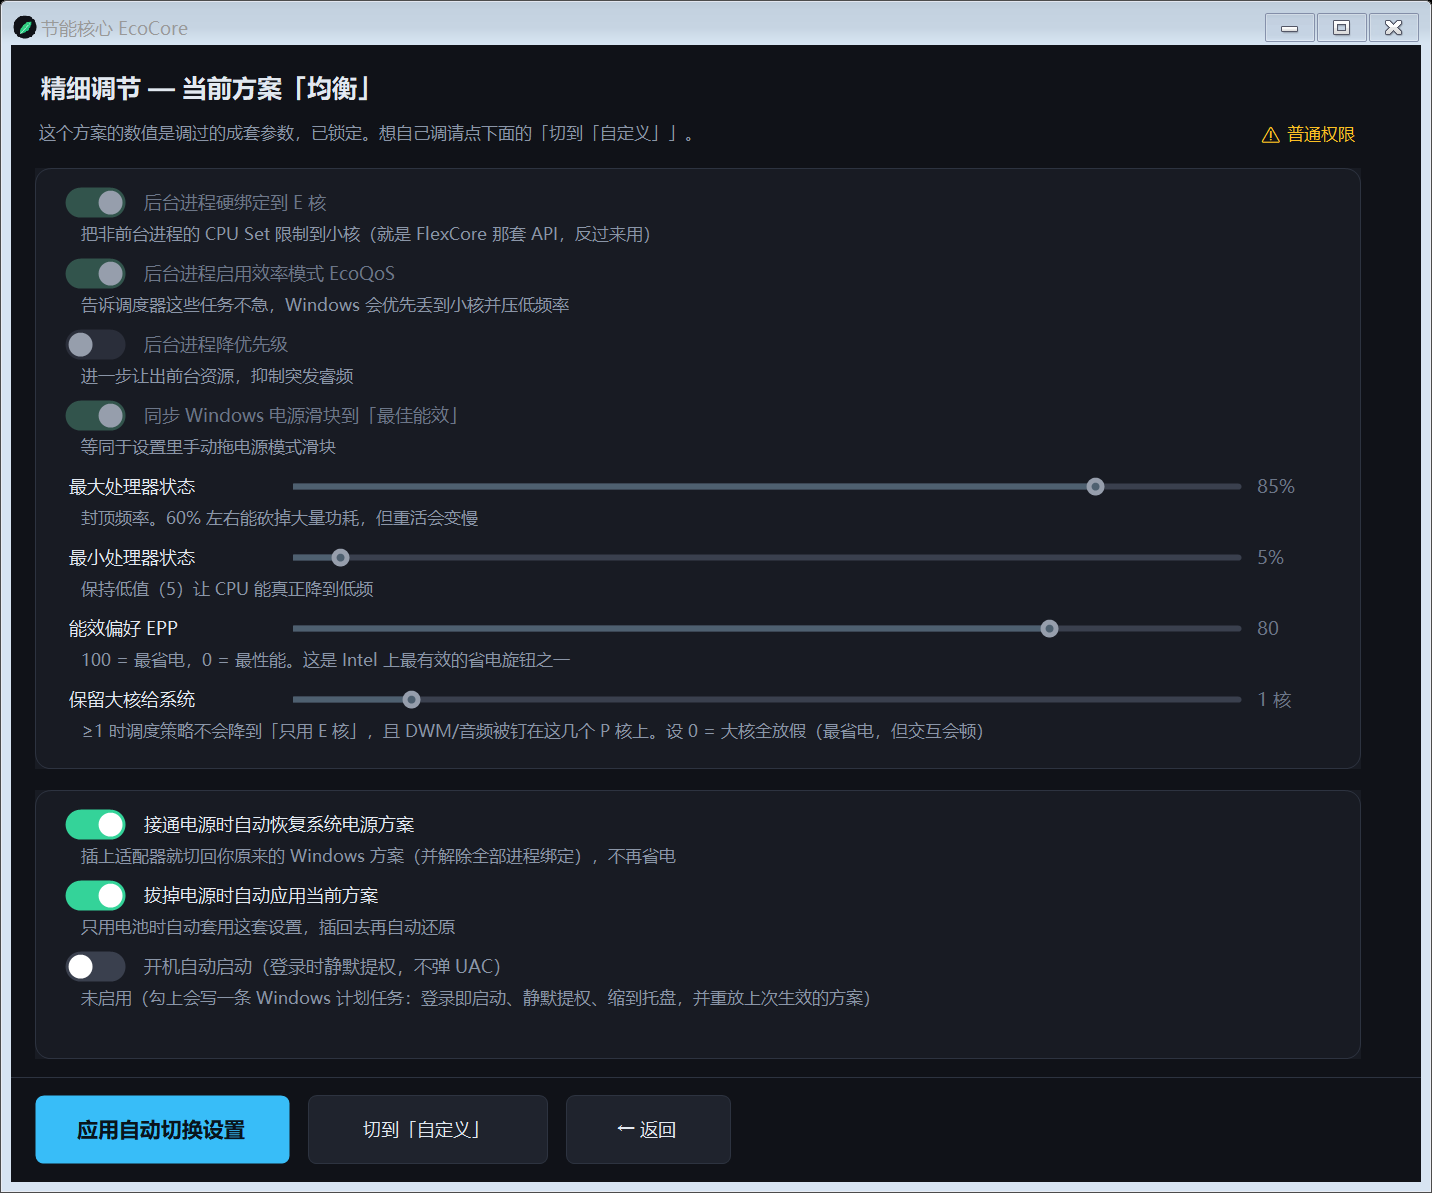
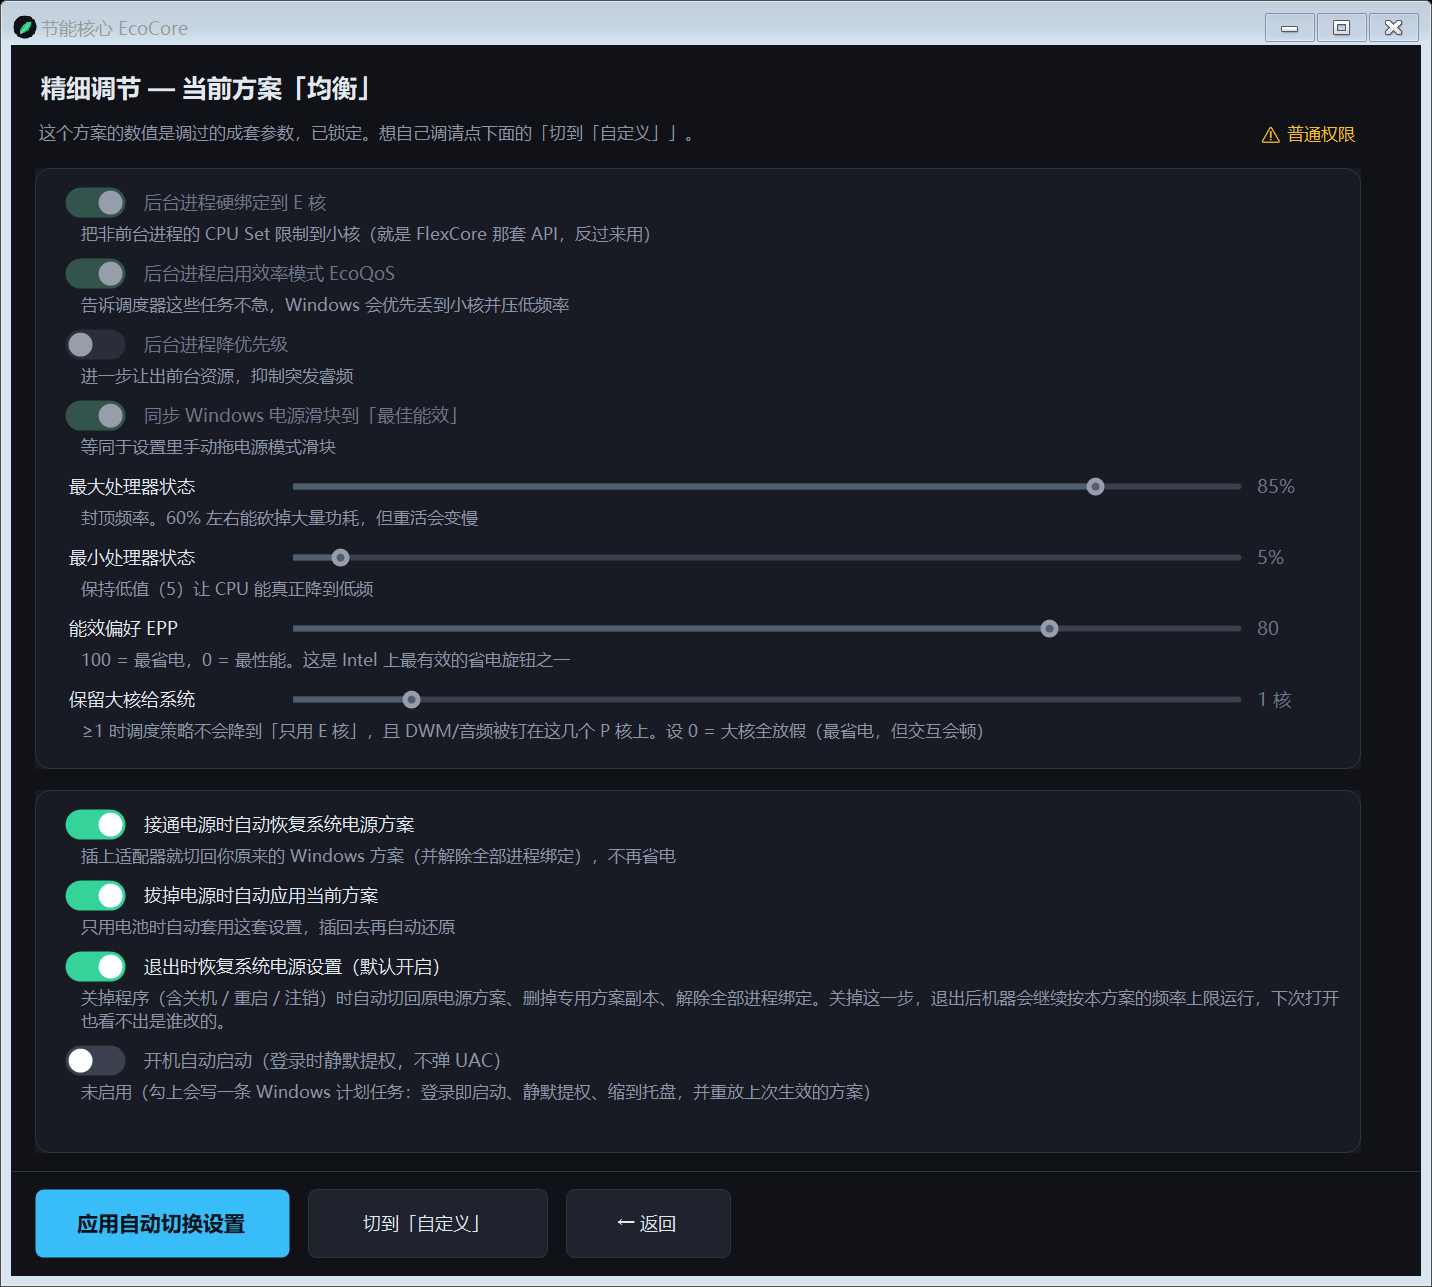
feat: 退出默认恢复系统电源设置（含关机/重启/注销）
- AppSettings.RestoreOnExit 默认 true；精细调节新增「退出时恢复系统电源设置」开关
- OnFormClosing 不再弹三选对话框，直接 Restore()，日志记录 CloseReason
- 配了开机自启时退出后保住 Applied 意图，下次登录照样重放方案
- 版本 1.2.2（本地提交，等指令再 push）

diff --git a/src/EcoCore/UI/MainForm.cs b/src/EcoCore/UI/MainForm.cs
@@ -623,15 +623,28 @@ public sealed class MainForm : Form
             return;
         }
 
-        // 退出时若还处于已应用状态，问一句要不要断开隔离
-        if (_co.IsApplied && e.CloseReason == CloseReason.UserClosing)
+        // 退出默认恢复系统电源设置（切回原方案 + 删副本 + 解除全部进程绑定）。
+        // 这是"默认"行为，理由：留在系统里的专用电源方案副本会让下一台/下一次运行莫名其妙地省电，
+        // 用户也搞不清是谁改的；退出还机器一个原样最省心。不想要可以在「精细调节」里关掉。
+        if (_co.IsApplied && _st.RestoreOnExit)
         {
-            var r = MessageBox.Show(this,
-                "退出后会解除全部进程的 E 核绑定。\n电源方案里写入的值会保留（可在「全部恢复默认」中清除）。\n\n退出前要顺便恢复电源方案吗？",
-                "节能核心", MessageBoxButtons.YesNoCancel, MessageBoxIcon.Question);
-            if (r == DialogResult.Cancel) { e.Cancel = true; return; }
-            if (r == DialogResult.Yes) _co.Restore(out _);
-            else _co.ReleaseAllProcesses();
+            _co.Restore(out string sum);
+            AppendLog($"退出（{e.CloseReason}）：已恢复系统电源设置 —— " + sum.Replace("\n", "；"));
+            _tray?.ShowBalloonTip(2000, "节能核心", "已恢复系统电源设置。", ToolTipIcon.Info);
+
+            // Restore 会清掉 Applied。但配了开机自启的话，"下次登录要重放方案"这个意图得留下，
+            // 否则退出一次自启就永久失效了。
+            if (AutoStart.Detect(out _) != AutoStartMode.None)
+            {
+                _st.Applied = true;
+                AppendLog("退出：开机自启仍启用，下次登录会重新应用方案。");
+            }
+        }
+        else if (_co.IsApplied)
+        {
+            // 用户关掉了「退出时恢复」：至少把进程层的 E 核绑定解开
+            _co.ReleaseAllProcesses();
+            AppendLog("退出：保留了电源方案（「退出时恢复」已关闭），已解除全部进程绑定。");
         }
 
         StateStore.Save(_st);

diff --git a/src/EcoCore/UI/DetailPage.cs b/src/EcoCore/UI/DetailPage.cs
@@ -158,6 +158,9 @@ internal sealed class DetailPage : UserControl
             "插上适配器就切回你原来的 Windows 方案（并解除全部进程绑定），不再省电");
         AddToggle(card2, "chkBatt", "拔掉电源时自动应用当前方案", px, ref py2,
             "只用电池时自动套用这套设置，插回去再自动还原");
+        AddToggle(card2, "chkExit", "退出时恢复系统电源设置（默认开启）", px, ref py2,
+            "关掉程序（含关机 / 重启 / 注销）时自动切回原电源方案、删掉专用方案副本、解除全部进程绑定。" +
+            "关掉这一步，退出后机器会继续按本方案的频率上限运行，下次打开也看不出是谁改的。");
         AddToggle(card2, "chkAuto", "开机自动启动（登录时静默提权，不弹 UAC）", px, ref py2,
             "勾上后写一条 Windows 计划任务：登录即启动、直接拿管理员权限、缩到托盘，" +
             "并把上次生效的方案重新应用一次（进程绑定不跨重启保留，不重放等于没开机自启）。");
@@ -205,6 +208,11 @@ internal sealed class DetailPage : UserControl
         _toggles["chkBatt"].CheckedChanged += (_, _) =>
         {
             _co.Settings.AutoSwitchOnBattery = _toggles["chkBatt"].Checked;
+            StateStore.Save(_co.Settings);
+        };
+        _toggles["chkExit"].CheckedChanged += (_, _) =>
+        {
+            _co.Settings.RestoreOnExit = _toggles["chkExit"].Checked;
             StateStore.Save(_co.Settings);
         };
 
@@ -327,6 +335,7 @@ internal sealed class DetailPage : UserControl
 
         _toggles["chkOnAc"].Checked = _co.Settings.AutoSwitchOnAc;
         _toggles["chkBatt"].Checked = _co.Settings.AutoSwitchOnBattery;
+        _toggles["chkExit"].Checked = _co.Settings.RestoreOnExit;
 
         // 开机自启：以磁盘上的实际状态为准（可能在别的机器上被改过，也可能是手建的计划任务）
         var autoMode = AutoStart.Detect(out string autoState);

diff --git a/src/EcoCore/Core/Profiles.cs b/src/EcoCore/Core/Profiles.cs
@@ -182,6 +182,8 @@ public sealed class AppSettings
     public bool StartWithWindows { get; set; } = false;
     public bool StartMinimized { get; set; } = false;
     public bool MinimizeToTrayOnClose { get; set; } = true;
+    /// <summary>退出程序时自动恢复系统电源设置（切回原方案、删掉副本、解除全部进程绑定）。默认开。</summary>
+    public bool RestoreOnExit { get; set; } = true;
     /// <summary>用户手动排除（永不处理）的进程名。</summary>
     public List<string> ExcludedProcesses { get; set; } = new();
     /// <summary>用户手动锁定到 E 核的进程名。</summary>

diff --git a/README.md b/README.md
@@ -259,6 +259,25 @@ private void OnDetailApplied(EcoProfile p)
 
 **关闭窗口 = 最小化到托盘**，右键托盘图标可以「恢复默认并退出」——退出时一定还原电源方案。
 
+### 退出时恢复系统电源设置（默认开启）
+
+关掉程序就算「退出」：**退出、关机、重启、注销，都会先恢复电源设置再走**——
+切回原电源方案、删掉「EcoCore 节能」副本、解除全部进程的 E 核绑定与 EcoQoS。
+
+```
+退出流程（MainForm.OnFormClosing）
+  1. _co.Restore()        → 切回 OriginalSchemeGuid、删除专用副本、电源滑块回「最佳性能」
+  2. if 开机自启仍启用    → _st.Applied = true（保住"下次登录要重放"的意图，否则退一次自启就永久失效）
+```
+
+为什么要默认做这件事：专用电源方案副本是**持久化**的。留在系统里的话，下次开机会觉得
+「怎么这么省电 / 怎么这么慢」，而且根本看不出是谁改的。退出还机器一个原样最省心。
+
+「精细调节」里可以关掉（`退出时恢复系统电源设置`）。关掉后退出只解除进程绑定、电源方案继续生效——
+适合「我就要它一直生效」的用法，代价是得自己记得手动还原。
+
+> 早期版本是弹一个「要不要恢复电源方案？」的三选对话框，现在改成默认直接恢复、不再问。
+
 ### 开机自动启动
 
 「精细调节」窗口里第三个开关：**开机自动启动（登录时静默提权，不弹 UAC）**。
